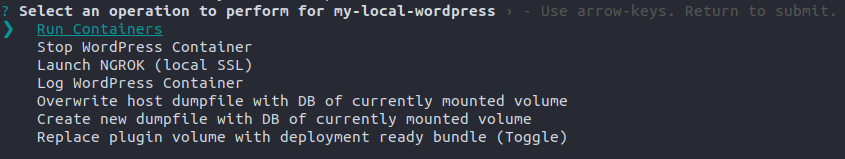
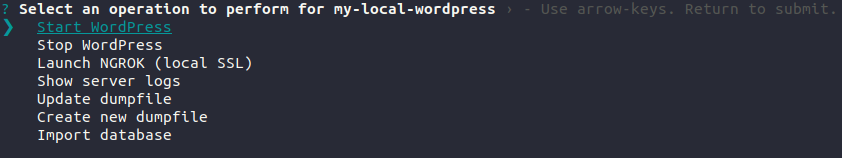
feat: add import feature for on-the-fly database replacement. Add support for PHP 8.0

diff --git a/src/actions/dumpfiles.ts b/src/actions/dumpfiles.ts
@@ -1,7 +1,76 @@
+import path from 'path';
+import fs from 'fs';
 import { FinalInstanceConfig } from '../types';
 import { exec } from 'child_process';
 import prompts from 'prompts';
 import logger from '../logger';
+
+export const redumpWithSelectedDumpfile = async ({
+  containerName,
+  workingdir,
+  containerPort,
+}: FinalInstanceConfig): Promise<void> => {
+  try {
+    const dumpfilesDir = path.resolve(workingdir, 'dumpfiles');
+    const dumpfiles = fs
+      .readdirSync(dumpfilesDir, { withFileTypes: true })
+      .filter((item) => !item.isDirectory())
+      .map((item) => ({
+        title: item.name,
+        value: `/app/dumpfiles/${item.name}`,
+      }));
+
+    const { selection } = await prompts(
+      {
+        type: 'select',
+        name: 'selection',
+        message: 'Select a dump file to overwrite the current database with',
+        choices: dumpfiles,
+        initial: 0,
+      },
+      {
+        onCancel: () => {
+          console.log('\nBye.');
+          process.exit();
+        },
+      },
+    );
+
+    const replacementUrl = `http://localhost:${containerPort}`;
+    const wpcmds = [
+      'wp db drop --yes',
+      'wp db create',
+      `wp db import ${selection}`,
+      // we have to check whether a search-replace is required because the command will fail if no hits were found
+      // in the search... Even though running the command directly from the command line will only output a
+      // warning message if no hits were found... super annoying
+      `siteurl=$(wp option get siteurl)`,
+      `if [ "$siteurl" != "${replacementUrl}" ]; then wp search-replace $siteurl ${replacementUrl}; fi`,
+    ];
+    exec(
+      `docker exec -i ${containerName} /bin/sh -c '${wpcmds.join(' && ')}'`,
+      (error, stdout, stderr) => {
+        if (error) {
+          console.error(error);
+          logger.error('command failed');
+          process.exit(1);
+        }
+        if (stderr) {
+          console.error(error);
+          logger.error('command failed');
+          process.exit(1);
+        }
+
+        if (stdout) {
+          console.log(stdout);
+        }
+      },
+    );
+  } catch (e) {
+    console.log(e);
+    logger.error('Is the container running?');
+  }
+};
 
 export const overwriteDumpfile = ({
   containerName,

diff --git a/src/index.ts b/src/index.ts
@@ -6,7 +6,7 @@ import path from 'path';
 import prompts from 'prompts';
 import { cwd } from 'process';
 import { InstanceConfig, FinalInstanceConfig } from './types';
-import { createNewDump, overwriteDumpfile } from './actions/dumpfiles';
+import { createNewDump, overwriteDumpfile, redumpWithSelectedDumpfile } from './actions/dumpfiles';
 import { isContainerRunning } from './utils';
 import validateConfig from './validation/validateAll';
 import buildFinalConfig from './buildFinalConfig/buildAll';
@@ -66,7 +66,7 @@ const actionMap: {
   };
 }[] = [
   {
-    title: 'Run Containers',
+    title: 'Start WordPress',
     value: {
       isRunning: false,
       requiresValidation: true,
@@ -74,7 +74,7 @@ const actionMap: {
     },
   },
   {
-    title: 'Stop WordPress Container',
+    title: 'Stop WordPress',
     value: {
       isRunning: true,
       requiresValidation: false,
@@ -90,7 +90,7 @@ const actionMap: {
     },
   },
   {
-    title: 'Log WordPress Container',
+    title: 'Show server logs',
     value: {
       isRunning: true,
       requiresValidation: false,
@@ -98,7 +98,7 @@ const actionMap: {
     },
   },
   {
-    title: 'Overwrite host dumpfile with DB of currently mounted volume',
+    title: 'Update dumpfile',
     value: {
       isRunning: true,
       requiresValidation: false,
@@ -106,11 +106,19 @@ const actionMap: {
     },
   },
   {
-    title: 'Create new dumpfile with DB of currently mounted volume',
+    title: 'Create new dumpfile',
     value: {
       isRunning: true,
       requiresValidation: false,
       func: createNewDump,
+    },
+  },
+  {
+    title: 'Import database',
+    value: {
+      isRunning: true,
+      requiresValidation: false,
+      func: redumpWithSelectedDumpfile,
     },
   },
 ];

diff --git a/src/actions/instance.ts b/src/actions/instance.ts
@@ -58,7 +58,7 @@ const runContainer = function (config: FinalInstanceConfig): void {
     execSync(`docker logs -f ${containerName}`, { stdio: 'inherit' });
   } catch (e) {
     logger.info(
-      `${logger.YELLOW}${containerName}${logger.WHITE} is still running in the background. You can view the log stream anytime with ${logger.GREEN}Log WordPress Container`,
+      `${logger.YELLOW}${containerName}${logger.WHITE} is still running in the background. You can view the log stream anytime with ${logger.GREEN}Show server logs`,
     );
   }
 };

diff --git a/src/buildFinalConfig/buildPluginAutoInstallWhitelist.ts b/src/buildFinalConfig/buildPluginAutoInstallWhitelist.ts
@@ -3,7 +3,10 @@ import { InstanceConfig } from '../types';
 import { homedir } from 'os';
 
 const buildPluginAutoInstallWhitelist = (config: InstanceConfig, workingdir: string): string[] => {
-  let alreadyInstalled = [...config.downloadPlugins];
+  let alreadyInstalled = [];
+  if (Array.isArray(config.downloadPlugins)) {
+    alreadyInstalled = [...config.downloadPlugins];
+  }
   if (config.localPlugins) {
     config.localPlugins.forEach((p) => {
       if (path.isAbsolute(p)) {

diff --git a/src/constants.ts b/src/constants.ts
@@ -7,4 +7,4 @@ export const sshConfigsFilepath = `${serverConfigsDirpath}/${sshConfigsFilename}
 export const ftpConfigsFilename = 'ftp.json';
 export const ftpConfigsFilepath = `${serverConfigsDirpath}/${ftpConfigsFilename}`;
 export const instanceConfFilename = 'wp-instances.json';
-export const validPhpVersions = ['7.2', '7.3', '7.4'];
+export const validPhpVersions = ['7.2', '7.3', '7.4', '8.0'];

diff --git a/README.md b/README.md
@@ -1,22 +1,29 @@
-# WordPress Docker Local Environment CLI
-The purpose of this library is for easy creation and management of local WordPress development environments with Docker. Essentially, this library uses `visiblevc`'s excellent [Docker images](https://github.com/visiblevc/wordpress-starter) as the base and adds CLI options which make environment management considerably easier. With most other tools the user must manually create/edit/delete `docker-compose.yml` files. This library foregoes that option in favor of `JSON` files specifically made for managing WordPress environments. The user does not need to have any prior knowledge of Docker to use this tool.
+# Local WordPress with Docker (an interactive CLI)
+Create local WordPress sites with Docker, **the easy way**.
 
-Features of this library include:
-- Mounting plugins/themes as Docker volumes **regardless of their path on the host system**
-- Automatic database creation from an SQL dump file on start-up
-- Automatic URL replacement after an SQL dump on start-up
-- Downloading and installing plugins/themes **automatically** on start-up
-- Downloading and installing private plugins/themes via SSH/FTP **automatically** on start-up
-- XDebug built-in for easy debugging of local environments **using the same port number for every environment**
-- Easy exporting of an environments database as a `.sql` dump file
-- `ngrok` support for easy SSL testing on localhost
-- A single `phpMyAdmin` container for all of your environments
-- Configurable PHP environment variables
-- Ability to specify PHP version (`7.2`, `7.3`, or `7.4`)
-- Ability to specify WordPress version
-- Local SMTP mail server with [MailHog](https://github.com/mailhog/MailHog)
+## Why?
+The purpose of this library is for easy creation *and management* of local WordPress development environments with Docker. Under the hood, this library uses `visiblevc`'s excellent [Docker images](https://github.com/visiblevc/wordpress-starter) as the base and adds CLI options via a `nodejs` script to make environment management even easier.
+
+With most other tools, the user must manually create and manage `docker-compose.yml` files. This method has several drawbacks though. `docker-compose` files are not tailored to WordPress specifically and require at least basic knowledge of Docker. Docker is a fantastic tool but can eat up a lot of development time. Another big problem for development, in particular, is that `docker-compose` files are intended to be mostly unchanged. Their rigidity is not well suited for development environments. In terms of WordPress, this could be mounting/unmounting plugin/theme folders, changing the PHP version, importing SQL dump files, pulling third-party non-free plugins/themes from an SSH server, etc. 
+
+Instead, this tool uses `JSON` files structured specifically for managing WordPress environments. With this approach, you can easily manage environments without any prior knowledge of Docker.
 
 This library is **only for managing development environments** and is not intended for creating production ready containers.
+
+## Main features:
+- Mount local plugin/theme folders **from anywhere on your system**
+- Download and install plugins/themes **automatically** on start-up
+- Download and install private plugins/themes via SSH/FTP **automatically** on start-up
+- XDebug built-in for easy debugging
+- Local SMTP mail server with [MailHog](https://github.com/mailhog/MailHog)
+- `ngrok` support for easy SSL testing on localhost
+- Configurable WordPress version
+- Configurable PHP version (`7.2`, `7.3`, `7.4`, or `8.0`)
+- Configurable PHP environment variables
+- Import a database on environment start-up (with URL replacement)
+- Import and replace the database of a **running** environment (with URL replacement)
+- Export an environments database
+- A single `phpMyAdmin` container for all of your environments
 
 ## Table of Contents
 -   [Requirements](#requirements)
@@ -109,7 +116,7 @@ A select prompt will appear:
 
 <img src="media/action-select.png" alt="example action-select" />
 
-Press the enter key on `Run Containers` and wait for the containers to be created (if this is your first time it might take a while). After the containers are created, open your browser and navigate to [localhost:8000/wp-admin](localhost:8000/wp-admin).
+Press the enter key on `Start WordPress` and wait for the environment to be created (if this is your first time it might take a while). After the environment is created, open your browser and navigate to [localhost:8000/wp-admin](localhost:8000/wp-admin).
 
 You should see the WordPress login screen. Login with the default username and password `root`.
 That's it!
@@ -130,12 +137,13 @@ $ aivec-wpdocker configs
 The CLI has seven different operations:
 | Operation | Description |
 | ----- | ----------- |
-| `Run Containers` | This will create and run the `MySQL` and `phpMyAdmin` containers if they are not already created and running, as well as start the `WordPress` container. If the environment's `WordPress` container is already running the CLI will abort with an error. Note that exiting with Ctrl+c will only stop the log stream, not the containers |
-| `Stop WordPress Container` | This will stop the `WordPress` container for the selected environment. It **will not** stop the `MySQL` and `phpMyAdmin` containers. |
+| `Start WordPress` | This will start the `WordPress` container, as well as create and run the `MySQL` and `phpMyAdmin` containers if they are not already created and running. If the environment's `WordPress` container is already running the CLI will abort with an error. Note that exiting with Ctrl+c will only stop the log stream, not the containers |
+| `Stop WordPress` | This will stop the `WordPress` container for the selected environment. It **will not** stop the `MySQL` and `phpMyAdmin` containers. |
+| `Show server logs` | By default, when you start a `WordPress` container with `Start WordPress`, it will stream the `Apache` logs to standard output. You can use this command to pipe the log stream to your console again if you have exited the stream. |
 | `Launch NGROK (local SSL)` | This will start the `ngrok` client for local SSL. Ctrl+c to stop the client. If you use `ngrok`, we **highly recommend** creating a free account on [ngrok.com](https://ngrok.com) so that you get more connections per minute. |
-| `Log WordPress Container` | By default, when you start a `WordPress` container with `Run Containers`, it will stream the `Apache` logs to standard output. You can use this command to pipe the log stream to your console again if you have exited the stream. |
-| `Overwrite host dumpfile with DB of currently mounted volume` | This will only work if you specified [mysqlDumpfile](#---databasemysqldumpfile) in your config. By invoking this command, the dumpfile, which is mounted as a volume in the container, will be overwritten with a dump of the database of the selected environment |
-| `Create new dumpfile with DB of currently mounted volume` | This will create a dumpfile from the database of the selected environment and prompt the user to name the dumpfile. The resultant dumpfile will be placed in a folder called `dumpfiles` in the same folder as `wp-instances.json`. If a `dumpfiles` folder does not already exist, it will be created. |
+| `Update dumpfile` | This will only work if you specified [mysqlDumpfile](#---databasemysqldumpfile) in your config. By invoking this command, the dumpfile, which is mounted as a volume in the container, will be overwritten with a dump of the database of the selected environment |
+| `Create new dumpfile` | This will create a dumpfile from the database of the selected environment and prompt the user to name the dumpfile. The dumpfile will be placed in a folder called `dumpfiles` in the same folder as `wp-instances.json`. If a `dumpfiles` folder does not already exist, it will be created. |
+| `Import database` | This will prompt you to choose from a list of dump files in the `dumpfiles` directory adjacent to `wp-instances.json`. The selected dump file will then be used to **replace** the current database of the selected environment |
 
 ## Environments
 Config files can contain any number of environments. To do so, wrap your config objects in an array:
@@ -162,7 +170,7 @@ Every environment has exactly one `WordPress` container associated with it. Conv
 | ----- | ---- | ------ |
 | `MySQL` | aivec_wp_mysql | |
 | `phpMyAdmin` | aivec_wp_pma | |
-| `WordPress` | [instanceName](#---instancename) + -[phpVersion](#---phpversion)_dev_wp | test-wordpress-7.3_dev_wp |
+| `WordPress` | [instanceName](#---instancename)-[phpVersion](#---phpversion)_dev_wp | test-wordpress-7.3_dev_wp |
 ### Logging in
 You can access `phpMyAdmin` at [localhost:22222](localhost:22222) with the following login information:
 - Username: `root`
@@ -172,7 +180,7 @@ For `WordPress` environments that **do not** specify a [mysqlDumpfile](#---datab
 - Username: `root`
 - Password: `root`
 ### Lifecycle details
-The database for each WordPress environment will only be created **the first time that environment is started**, regardless of whether you set a [mysqlDumpfile](#---databasemysqldumpfile) or not. This is because even if you [stop the WordPress container](#cli-usage), the `MySQL` container will continue to run. The next time you [run the containers](#cli-usage), the database will already exist so it will not be created. If you want the database to be re-created every time you [run the containers](#cli-usage), set [flushOnRestart](#---databaseflushonrestart) to `true`.
+The database for each WordPress environment will only be created **the first time that environment is started**, regardless of whether you set a [mysqlDumpfile](#---databasemysqldumpfile) or not. This is because even if you [stop the WordPress container](#cli-usage), the `MySQL` container will continue to run. The next time you [start WordPress](#cli-usage), the database will already exist so it will not be created. If you want the database to be re-created every time you [start WordPress](#cli-usage), set [flushOnRestart](#---databaseflushonrestart) to `true`.
 
 ## MailHog
 Emails sent via WordPress' built-in `wp_mail` function are caught by [MailHog](#mailhog). All outgoing email can be viewed in a web UI at [localhost:8025](localhost:8025)
